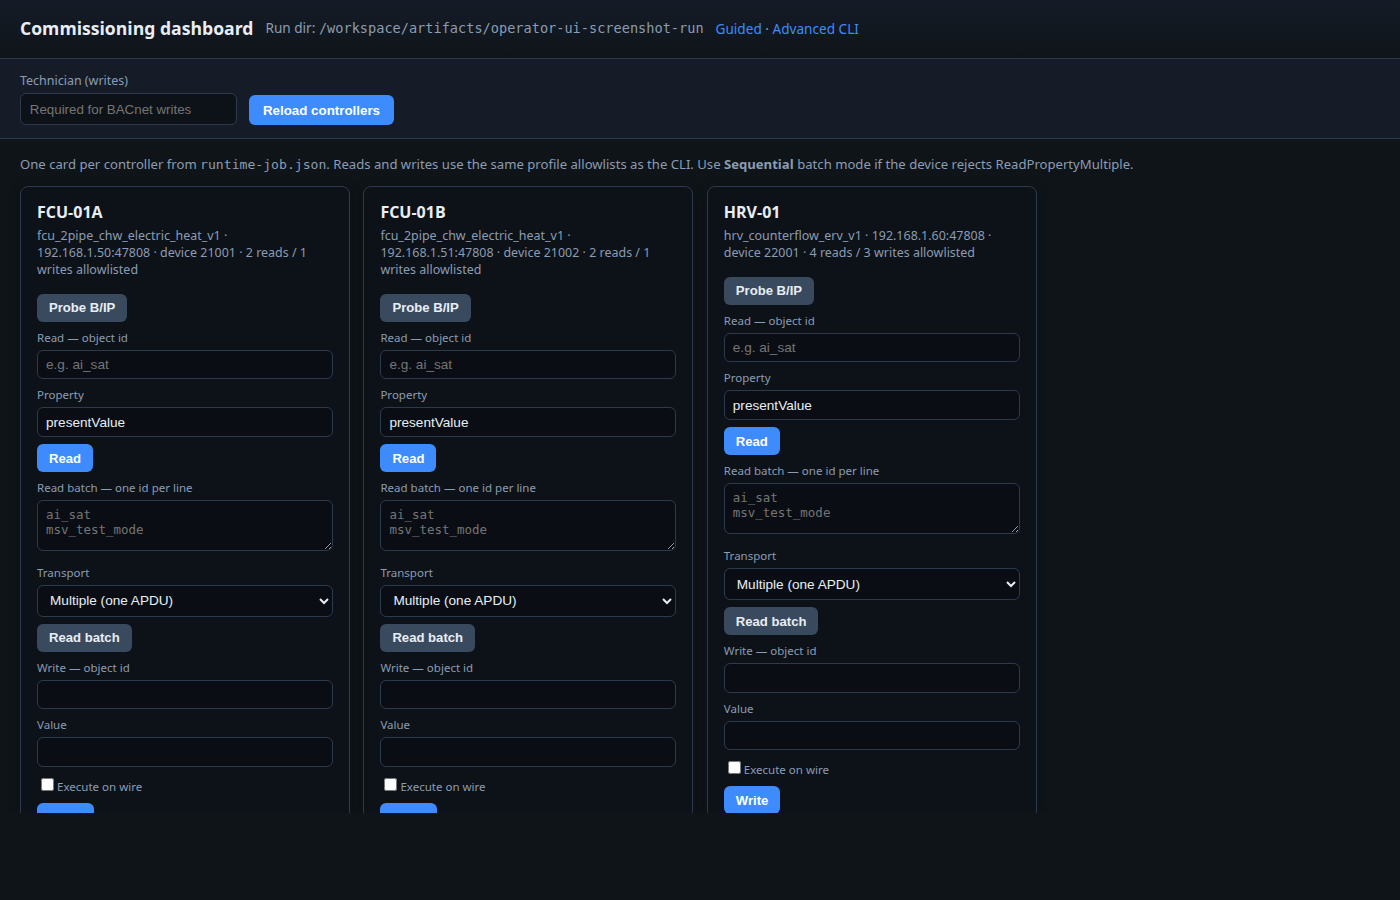
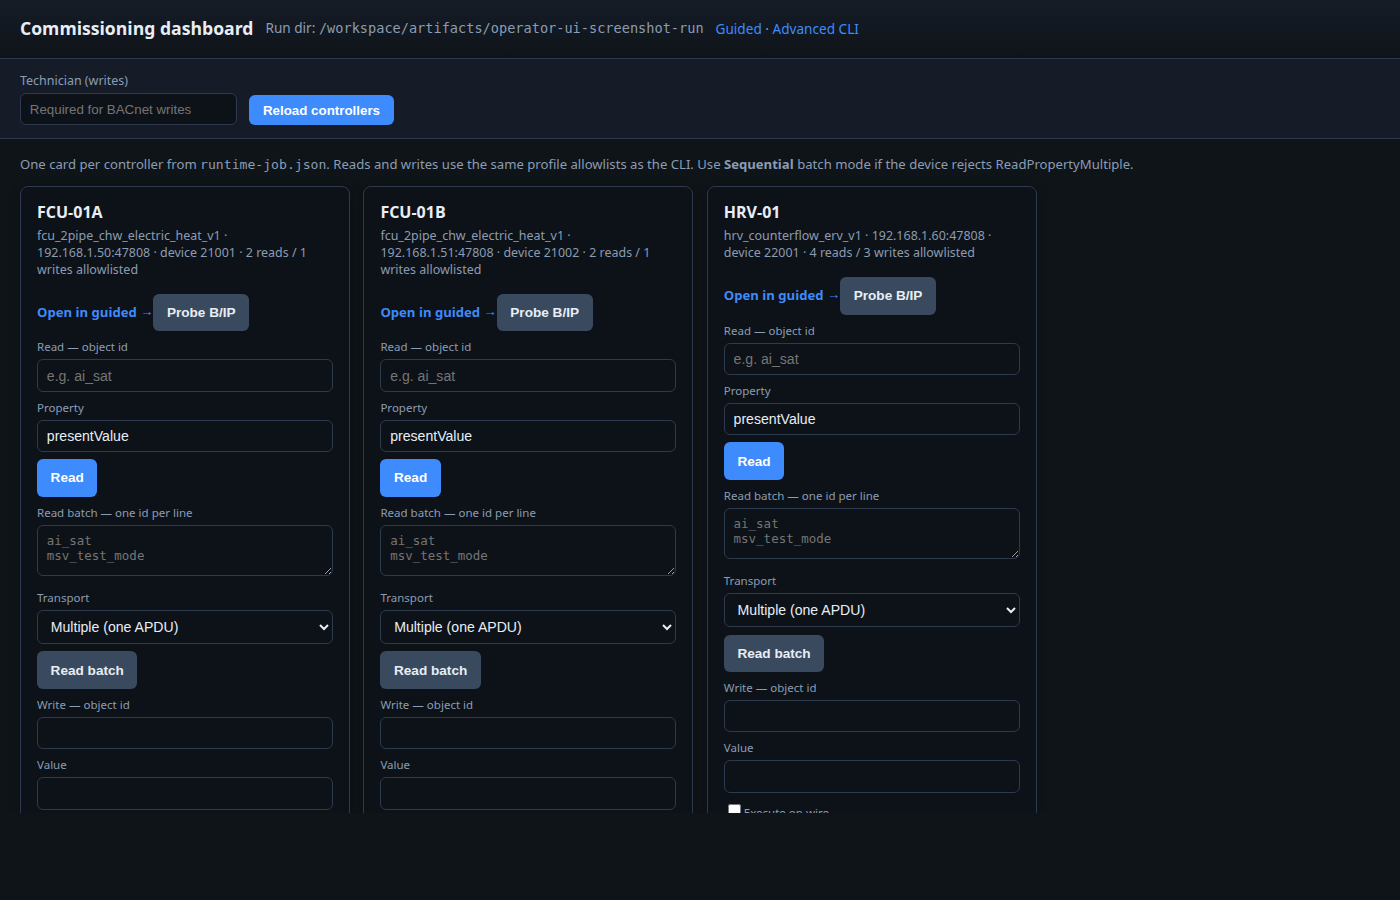
feat(operator-gui): guided deep links, technician sync, dashboard polish
- Move shared technician banner above Quick BACnet; persist name in
  sessionStorage for guided and dashboard toolbar
- Support /guided?controller=&step=; sync URL on step select; Jump to
  next open step button
- Dashboard: Open in guided link per card; align input/button styling
  with guided tokens
- docs/project.md: document FCU docker sim AV instance 3 vs 4 mapping
- Add docs/plans/2026-04-24-operator-ui-refinement.md (phased UX plan)
  and index links; refresh operator-guided-ui.md and screenshot hashes

diff --git a/tools/operator_gui_server.py b/tools/operator_gui_server.py
@@ -502,6 +502,15 @@ details summary:hover {{ color: var(--text); }}
   border-radius: var(--radius-sm); font-size: 0.76rem; border: 1px solid var(--border);
   font-family: ui-monospace, monospace; color: #c5d4e8;
 }}
+.tech-banner {{
+  margin-top: 0.5rem; padding: 0.75rem 0.85rem; border-radius: var(--radius);
+  border: 1px solid var(--border); background: var(--surface);
+}}
+.tech-banner label {{ margin-top: 0; font-size: 0.8rem; color: var(--text); font-weight: 600; }}
+.tech-banner input {{ margin-top: 0.35rem; }}
+.tech-banner .small {{ margin: 0.35rem 0 0; font-size: 0.74rem; color: var(--muted); }}
+.row-actions {{ display: flex; flex-wrap: wrap; gap: 0.5rem; align-items: center; margin-top: 0.45rem; }}
+.row-actions button {{ margin-top: 0; }}
 </style></head>
 <body>
 <header>
@@ -522,6 +531,14 @@ details summary:hover {{ color: var(--text); }}
   <div class="panel">
     <h2 id="focusTitle">Select a controller</h2>
     <p id="nextHint" class="meta"></p>
+    <div class="row-actions">
+      <button type="button" class="secondary" id="btnJumpNext">Jump to next open step</button>
+    </div>
+    <div class="tech-banner">
+      <label for="commonTech">Shared technician name</label>
+      <p class="small">Required for <strong>Quick BACnet writes</strong> and used as the default in the forms below. Saved in this browser until you clear it.</p>
+      <input id="commonTech" placeholder="Your name (prefills other fields)" autocomplete="name"/>
+    </div>
     <div class="quick-section">
       <h3>Quick BACnet</h3>
       <p class="section-lead">Reads and writes use the profile allowlists from <code>compile-import</code>. Batch read defaults to one ReadPropertyMultiple APDU (use sequential if the device rejects RPM).</p>
@@ -568,9 +585,6 @@ details summary:hover {{ color: var(--text); }}
     <ul class="cmds" id="cmdList"></ul>
     <details id="cmdDetails"><summary>Raw CLI hints</summary><pre id="cmdRaw" style="white-space:pre-wrap;font-size:0.75rem;margin:0.5rem 0 0"></pre></details>
     <div id="actionForms"></div>
-    <h3>Shared technician name</h3>
-    <label>Used as default in forms below</label>
-    <input id="commonTech" placeholder="Your name (prefills other fields)"/>
     <h3>Tachometer confirm (focused step)</h3>
     <label>Technician</label>
     <input id="tachoTech" placeholder="defaults to shared name"/>
@@ -612,7 +626,35 @@ details summary:hover {{ color: var(--text); }}
 </div>
 <script>
 const RUN_DIR = {rd};
+const TECH_KEY = "bacnet_op_technician_name";
 document.getElementById("runDirDisp").textContent = RUN_DIR;
+
+function guidedQueryParams() {{
+  try {{ return new URLSearchParams(window.location.search); }}
+  catch (e) {{ return new URLSearchParams(); }}
+}}
+
+function loadSavedTechnician() {{
+  try {{
+    const v = sessionStorage.getItem(TECH_KEY);
+    if (v) {{
+      const el = document.getElementById("commonTech");
+      if (el && !el.value.trim()) el.value = v;
+    }}
+  }} catch (e) {{}}
+}}
+
+function persistTechnician() {{
+  try {{
+    const v = document.getElementById("commonTech").value.trim();
+    if (v) sessionStorage.setItem(TECH_KEY, v);
+    else sessionStorage.removeItem(TECH_KEY);
+  }} catch (e) {{}}
+}}
+
+document.getElementById("commonTech").addEventListener("input", persistTechnician);
+document.getElementById("commonTech").addEventListener("change", persistTechnician);
+loadSavedTechnician();
 
 async function apiJson(path, opts) {{
   const r = await fetch(path, Object.assign({{ headers: {{ "Accept": "application/json" }} }}, opts || {{}}));
@@ -669,7 +711,13 @@ async function loadControllers() {{
     showFlash(document.getElementById("ctlFlash"), "No flow state found. Run compile-import then init-flow for a controller.", true);
   }} else {{
     document.getElementById("ctlFlash").style.display = "none";
-    await loadGuidance();
+    const qp = guidedQueryParams();
+    const wantCtl = (qp.get("controller") || "").trim();
+    const wantStep = (qp.get("step") || "").trim();
+    if (wantCtl && controllers.includes(wantCtl)) {{
+      document.getElementById("selCtl").value = wantCtl;
+    }}
+    await loadGuidance({{ preferStep: wantStep || null }});
   }}
 }}
 
@@ -679,7 +727,9 @@ function badgeClass(st) {{
   return "badge pending";
 }}
 
-async function loadGuidance() {{
+async function loadGuidance(opts) {{
+  opts = opts || {{}};
+  const preferStep = (opts.preferStep || "").trim();
   const c = document.getElementById("selCtl").value;
   if (!c) return;
   selectedStepId = null;
@@ -701,7 +751,12 @@ async function loadGuidance() {{
     ? `Next open: ${{next.step_id}} — ${{next.label || ""}} (${{next.status}})`
     : "All steps complete for this controller.";
   await loadSession();
-  if (next && next.step_id) selectStep(next.step_id);
+  const stepIds = new Set((steps || []).map(s => s.step_id));
+  if (preferStep && stepIds.has(preferStep)) {{
+    selectStep(preferStep);
+  }} else if (next && next.step_id) {{
+    selectStep(next.step_id);
+  }}
 }}
 
 async function loadSession() {{
@@ -1078,10 +1133,40 @@ function selectStep(sid) {{
   document.getElementById("cmdRaw").textContent = list.length ? list.join("\\n") : "";
   const c = document.getElementById("selCtl").value;
   renderActionForms(c, sid);
+  updateGuidedUrl();
 }}
 
+function updateGuidedUrl() {{
+  const c = document.getElementById("selCtl").value;
+  const sid = selectedStepId || document.getElementById("recSid").value.trim();
+  try {{
+    const u = new URL(window.location.href);
+    if (c) u.searchParams.set("controller", c);
+    else u.searchParams.delete("controller");
+    if (sid) u.searchParams.set("step", sid);
+    else u.searchParams.delete("step");
+    history.replaceState(null, "", u.pathname + u.search);
+  }} catch (e) {{}}
+}}
+
+document.getElementById("btnJumpNext").addEventListener("click", () => {{
+  const g = guidance && guidance.guidance;
+  const next = g && g.next_open_step;
+  if (next && next.step_id) {{
+    selectStep(next.step_id);
+    for (const li of document.querySelectorAll("#stepList li")) {{
+      if (li.dataset.sid === next.step_id) {{
+        li.scrollIntoView({{ block: "nearest", behavior: "smooth" }});
+        break;
+      }}
+    }}
+  }} else {{
+    showFlash(document.getElementById("detailFlash"), "No open step for this controller.", true);
+  }}
+}});
+
 document.getElementById("btnReload").addEventListener("click", loadControllers);
-document.getElementById("selCtl").addEventListener("change", loadGuidance);
+document.getElementById("selCtl").addEventListener("change", () => {{ loadGuidance(); }});
 
 document.getElementById("btnSess").addEventListener("click", async () => {{
   const c = document.getElementById("selCtl").value;
@@ -1296,17 +1381,27 @@ header a:hover {{ text-decoration: underline; }}
 .dash-card .sub {{ font-size: 0.78rem; color: var(--muted); margin-bottom: 0.5rem; line-height: 1.35; }}
 .dash-card label {{ display: block; font-size: 0.72rem; color: var(--muted); margin-top: 0.5rem; font-weight: 500; }}
 .dash-card input, .dash-card textarea, .dash-card select {{
-  width: 100%; margin-top: 0.2rem; padding: 0.4rem 0.5rem; font-size: 0.85rem;
-  border-radius: var(--radius-sm); border: 1px solid var(--border); background: #0a0e14; color: var(--text);
+  width: 100%; margin-top: 0.2rem; padding: 0.45rem 0.55rem; font-size: 0.88rem;
+  border-radius: var(--radius-sm); border: 1px solid var(--border); background: var(--surface); color: var(--text);
+  transition: border-color 0.12s ease, box-shadow 0.12s ease;
+}}
+.dash-card input:focus, .dash-card textarea:focus, .dash-card select:focus {{
+  outline: none; border-color: var(--accent); box-shadow: 0 0 0 2px rgba(61, 139, 253, 0.22);
 }}
 .dash-card textarea {{ min-height: 3.2rem; font-family: ui-monospace, monospace; font-size: 0.78rem; }}
 .dash-card .row {{ display: flex; flex-wrap: wrap; gap: 0.4rem; margin-top: 0.45rem; }}
 .dash-card button {{
-  margin-top: 0.45rem; padding: 0.4rem 0.75rem; border: none; border-radius: var(--radius-sm);
-  font-size: 0.82rem; font-weight: 600; cursor: pointer; background: #3a4a5e; color: var(--text);
+  margin-top: 0.45rem; padding: 0.45rem 0.85rem; border: none; border-radius: var(--radius-sm);
+  font-size: 0.85rem; font-weight: 600; cursor: pointer; background: #3a4a5e; color: var(--text);
+  min-height: 2.35rem;
 }}
 .dash-card button.primary {{ background: var(--accent); color: #fff; }}
 .dash-card button:hover {{ filter: brightness(1.08); }}
+.dash-guided-link {{
+  display: inline-block; margin-top: 0.45rem; font-size: 0.82rem; font-weight: 600;
+  color: var(--accent); text-decoration: none;
+}}
+.dash-guided-link:hover {{ text-decoration: underline; }}
 .dash-card .probe-out {{ font-size: 0.74rem; color: var(--muted); margin-top: 0.35rem; font-family: ui-monospace, monospace; }}
 .dash-card .flash {{ margin-top: 0.45rem; padding: 0.45rem 0.55rem; border-radius: var(--radius-sm); font-size: 0.78rem; display: none;
   border-left: 3px solid transparent; word-break: break-word; }}
@@ -1341,7 +1436,26 @@ header a:hover {{ text-decoration: underline; }}
 </div>
 <script>
 const RUN_DIR = {rd};
+const TECH_KEY = "bacnet_op_technician_name";
 document.getElementById("runDirDisp").textContent = RUN_DIR;
+
+function loadDashTech() {{
+  try {{
+    const v = sessionStorage.getItem(TECH_KEY);
+    const el = document.getElementById("dashTech");
+    if (v && el && !el.value.trim()) el.value = v;
+  }} catch (e) {{}}
+}}
+function persistDashTech() {{
+  try {{
+    const v = document.getElementById("dashTech").value.trim();
+    if (v) sessionStorage.setItem(TECH_KEY, v);
+    else sessionStorage.removeItem(TECH_KEY);
+  }} catch (e) {{}}
+}}
+document.getElementById("dashTech").addEventListener("input", persistDashTech);
+document.getElementById("dashTech").addEventListener("change", persistDashTech);
+loadDashTech();
 
 function showGlobal(msg, isErr) {{
   const el = document.getElementById("globalFlash");
@@ -1405,6 +1519,11 @@ function buildCard(row) {{
   h.textContent = lab;
   card.appendChild(h);
   card.appendChild(sub);
+  const lg = document.createElement("a");
+  lg.className = "dash-guided-link";
+  lg.href = "/guided?controller=" + encodeURIComponent(lab);
+  lg.textContent = "Open in guided →";
+  card.appendChild(lg);
 
   const bProbe = document.createElement("button");
   bProbe.type = "button";

diff --git a/tests/test_operator_gui_server.py b/tests/test_operator_gui_server.py
@@ -51,6 +51,9 @@ class OperatorGuiTests(unittest.TestCase):
         self.assertIn("/api/v1/dashboard-controllers", body)
         self.assertIn("/api/v1/dashboard-probe", body)
         self.assertIn("dash-grid", body)
+        self.assertIn("/guided?controller=", body)
+        self.assertIn("Open in guided", body)
+        self.assertIn("bacnet_op_technician_name", body)
 
     def test_dashboard_controller_summaries(self) -> None:
         import importlib.util
@@ -98,6 +101,10 @@ class OperatorGuiTests(unittest.TestCase):
         self.assertIn("bacnet-quick-read-batch", body)
         self.assertIn("Guided commissioning", body)
         self.assertIn("/dashboard", body)
+        self.assertIn("btnJumpNext", body)
+        self.assertIn("Jump to next open step", body)
+        self.assertIn("bacnet_op_technician_name", body)
+        self.assertIn("Shared technician name", body)
 
     def test_guided_api_command_allowlist_includes_point_checkout(self) -> None:
         import importlib.util

diff --git a/tests/test_operator_guided_screenshots_checksums.py b/tests/test_operator_guided_screenshots_checksums.py
@@ -18,13 +18,13 @@ ROOT = pathlib.Path(__file__).resolve().parents[1]
 
 _EXPECTED_SHA256 = {
     "operator-guided-ui-wide.png": (
[2 lines of base64/hex data omitted]
     ),
     "operator-guided-ui-mobile.png": (
[1 lines of base64/hex data omitted]
     ),
     "operator-dashboard-wide.png": (
[2 lines of base64/hex data omitted]
     ),
     "operator-advanced-cli-form.png": (
[1 lines of base64/hex data omitted]

diff --git a/docs/plans/2026-04-24-operator-ui-refinement.md b/docs/plans/2026-04-24-operator-ui-refinement.md
@@ -1,0 +1,72 @@
+# Plan: Operator UI refinement (guided + dashboard + advanced)
+
+Audience: implementers iterating on **`tools/operator_gui_server.py`** after the first **guided**, **dashboard**, and **advanced CLI** pages shipped.
+
+## Goal
+
+Make the local operator UI **faster for repeat field use**, **easier to navigate** across controllers and steps, and **visually consistent**—without replacing the stdlib server or duplicating commissioning policy in JavaScript.
+
+## Non-goals (this slice)
+
+- Replacing **HTTPServer** with a SPA framework.
+- Moving **record-step** / allowlist rules into the browser (server-side CLI remains authoritative).
+- macOS **Tauri** layout changes unless they are one-line shell/docs updates.
+
+## Assessment (current strengths / gaps)
+
+**Strengths**
+
+- **/guided** exposes real **`commissioning-guided-next`** data, action forms tied to profile actions, and **Quick BACnet** with RPM batching.
+- **/dashboard** gives per-controller read / batch / write / probe without leaving the run-dir context.
+- **/advanced** remains an escape hatch for uncommon CLI flags.
+
+**Gaps**
+
+1. **Technician name** sits low on **/guided** even though **Quick BACnet writes** and several forms require it first—operators scroll unnecessarily.
+2. **No deep links** from dashboard cards back into **/guided** for the same controller (and no URL to bookmark a controller + step).
+3. **Loading / in-flight** feedback is minimal on long BACnet calls (probe, batch read, modulation).
+4. **Visual drift**: **/dashboard** input chrome differs slightly from **/guided**; **/** (advanced) is light-themed while the rest is dark—acceptable but jarring when hopping links.
+5. **Discoverability**: operators may not notice **RPM vs sequential** batch mode without reading the hint every time.
+
+## Phased work
+
+### Phase 1 — Quick wins (shipped incrementally in repo)
+
+- [x] Move **shared technician** block above **Quick BACnet** on **/guided**; persist **`commonTech`** (and dashboard **`dashTech`**) in **`sessionStorage`**.
+- [x] **Deep links**: **`/guided?controller=…&step=…`**; dashboard cards link **“Open in guided”** with controller query.
+- [x] **“Jump to next open step”** control when **`commissioning-guided-next`** reports **`next_open_step`**.
+- [x] Align **/dashboard** control styling closer to **/guided** (surface tokens, slightly larger tap targets).
+
+### Phase 2 — Feedback and resilience
+
+- [ ] Disable primary buttons and show **“Working…”** (or `aria-busy`) during **`fetch`** for BACnet and long-running actions; re-enable on settle.
+- [ ] Optional **last BACnet result** strip (collapsed by default) storing the last JSON **status** line per page for support screenshots.
+
+### Phase 3 — Navigation and power use
+
+- [ ] **Search / filter** step list by id or label substring when flows have many steps.
+- [ ] **Keyboard**: `j` / `k` for next/previous step in the focused controller (when focus is not in an input).
+
+### Phase 4 — Theming (optional)
+
+- [ ] Either **darken /advanced** to match guided/dashboard, or add a **compact “operator”** stylesheet shared across all three routes via duplicated `:root` tokens reduced to one Python helper (small refactor).
+
+## Files
+
+- Primary: `tools/operator_gui_server.py`
+- Tests: `tests/test_operator_gui_server.py`
+- Screenshot automation (when visuals change): `tools/packaging/capture_operator_guided_screenshots.sh`, `tests/test_operator_guided_screenshots_checksums.py`
+- Product cross-links: `docs/project.md`, `docs/packaging/operator-guided-ui.md`
+
+## Verification
+
+```bash
+python3 -m pip install -r requirements.txt
+python3 -m unittest discover -s tests -p 'test_*.py'
+```
+
+Pass: all tests green; manually open **`/guided?controller=…`**, **`/dashboard`**, and confirm technician persistence across reload on the same origin.
+
+## Revision
+
+- **2026-04-24:** Initial plan (post-dashboard assessment).

diff --git a/docs/packaging/operator-guided-ui.md b/docs/packaging/operator-guided-ui.md
@@ -8,7 +8,13 @@ python3 tools/runtime/app.py operator-gui --run-dir <run-dir> --gui-port 8765
 
 The **Quick BACnet** strip uses three cards: **Read one point**, **Read batch** (lines → **`bacnet-read-batch`**; transport **Multiple** vs **Sequential**), and **Write present value**. Success toasts summarize values (batch shows first few `object=value` pairs). The advanced **`/`** page uses a light card layout aligned with the guided header link.
 
-**`/dashboard`** lists every controller from **`runtime-job.json`** in a responsive grid. Each card has **Probe B/IP** (`probe-bip`), the same **read / read batch / write** controls as guided (toolbar **Technician** is required for writes), and per-card result toasts.
+**Shared technician:** On **`/guided`**, enter your name in **Shared technician name** before Quick BACnet writes (and as the default for modulation, session, record-step, etc.). The browser stores it in **`sessionStorage`** under **`bacnet_op_technician_name`** so it survives reloads; **`/dashboard`** toolbar uses the same key so guided and dashboard stay in sync.
+
+**Deep links:** **`/guided?controller=FCU-01A&step=half_design_airflow_auto`** selects that controller and step when they exist (otherwise falls back to **next open**). Choosing a step updates the URL with **`history.replaceState`** for bookmarking.
+
+**Jump to next:** **Jump to next open step** selects **`next_open_step`** from **`commissioning-guided-next`** and scrolls it into view in the step list.
+
+**`/dashboard`** lists every controller from **`runtime-job.json`** in a responsive grid. Each card has **Probe B/IP** (`probe-bip`), the same **read / read batch / write** controls as guided (toolbar **Technician** is required for writes), per-card result toasts, and **Open in guided →** (`/guided?controller=…`).
 
 ## Screenshots in this repo
 

diff --git a/docs/project.md b/docs/project.md
@@ -162,7 +162,7 @@ Exact file format (JSON, YAML, SQLite job DB, etc.) is TBD; the above is the **i
 ### BACnet simulation and CI
 
 - **Goal:** heavy **automated simulation and regression** before relying on field panels alone.
-- **Shipped slice:** `docker/simulator/` **bacnet-dev** profile — **buildable** BACnet/IP UDP sim (`docker/simulator/bacnet-device/`) with **`SIM_PROFILE`** (`fcu` / `hrv`), **four** published ports on loopback, CI smoke via `tools/simulator/docker_bacnet_smoke.sh` + `docs/examples/site-controllers.docker-bacnet-sim.csv`.
+- **Shipped slice:** `docker/simulator/` **bacnet-dev** profile — **buildable** BACnet/IP UDP sim (`docker/simulator/bacnet-device/`) with **`SIM_PROFILE`** (`fcu` / `hrv`), **four** published ports on loopback, CI smoke via `tools/simulator/docker_bacnet_smoke.sh` + `docs/examples/site-controllers.docker-bacnet-sim.csv`. The **FCU** lab device maps **analogValue instance 3** to **`av_supply_fan_command`** and **instance 4** to **`av_electric_heat_command`** (same as `unit-profile-fcu.docker-bacnet-sim.example.json`); optional env **`SIM_AV_SUPPLY_FAN`** / **`SIM_AV_HEAT`** seed those present values (**ADR 0008**, `docker/simulator/README.md`).
 - **Longer-term baseline (spec):** Docker lab with multiple profiles (`ci` / `lab` / `multisubnet`) — see [docs/simulator/README.md](simulator/README.md) “planned” sections.
 - **Discovery and verification mode:** list-first, verify-all. The system attempts every imported controller row and emits a terminal status for each row (no silent skip).
 - **Strict CI gate:** fail CI when required rows are unresolved, identity mismatched, or missing required points.

diff --git a/docs/plans/2026-04-28-post-v1-ui-airflow-reports-bacnet-lab.md b/docs/plans/2026-04-28-post-v1-ui-airflow-reports-bacnet-lab.md
@@ -78,6 +78,7 @@ The **Tauri operator** CI ships **Ubuntu `.deb`** and **Windows NSIS** artifacts
 ## Revision
 
 - **2026-04-28:** Initial plan (tiered sequencing; BBMD deferred).
+- **2026-04-24:** Follow-on UX plan for **`operator-gui`** (guided / dashboard): [`2026-04-24-operator-ui-refinement.md`](2026-04-24-operator-ui-refinement.md).
 - **2026-04-28:** Tier A items A1–A4 marked shipped in-repo (see foundation plan current status); Tier B marked shipped; Tier C later shipped **2026-04-25**.
 - **2026-04-24:** Documented intentional deferral of **macOS `.dmg`** and **signed NSIS** for the Tauri operator (CI stays Linux + Windows only).
 - **2026-04-25:** Tier **C1–C3** shipped (BBMD lab profile, macvlan example + runbook, COV + write batch CLI); see **ADR 0015**.

diff --git a/docs/plans/README.md b/docs/plans/README.md
@@ -6,6 +6,7 @@ One file per **bounded slice** of work (a milestone, a week, a feature chunk)—
 
 - Foundation / baseline: [`2026-04-21-v1-foundation-plan.md`](2026-04-21-v1-foundation-plan.md)
 - Next sequencing (UI, reports, closed-loop airflow; **BBMD deferred**): [`2026-04-28-post-v1-ui-airflow-reports-bacnet-lab.md`](2026-04-28-post-v1-ui-airflow-reports-bacnet-lab.md)
+- Operator browser UI polish (guided / dashboard / navigation): [`2026-04-24-operator-ui-refinement.md`](2026-04-24-operator-ui-refinement.md)
 
 ## When to add a plan
 